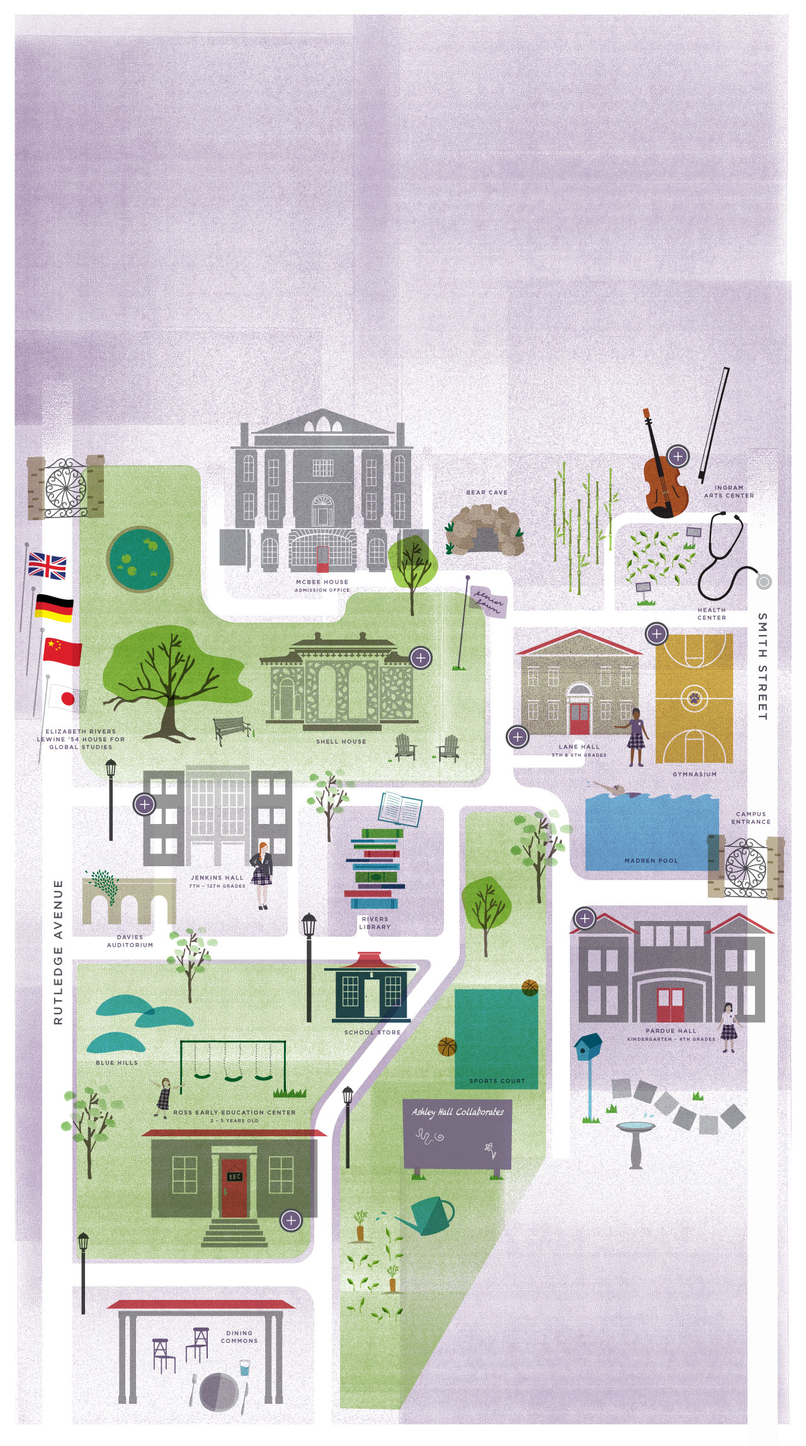
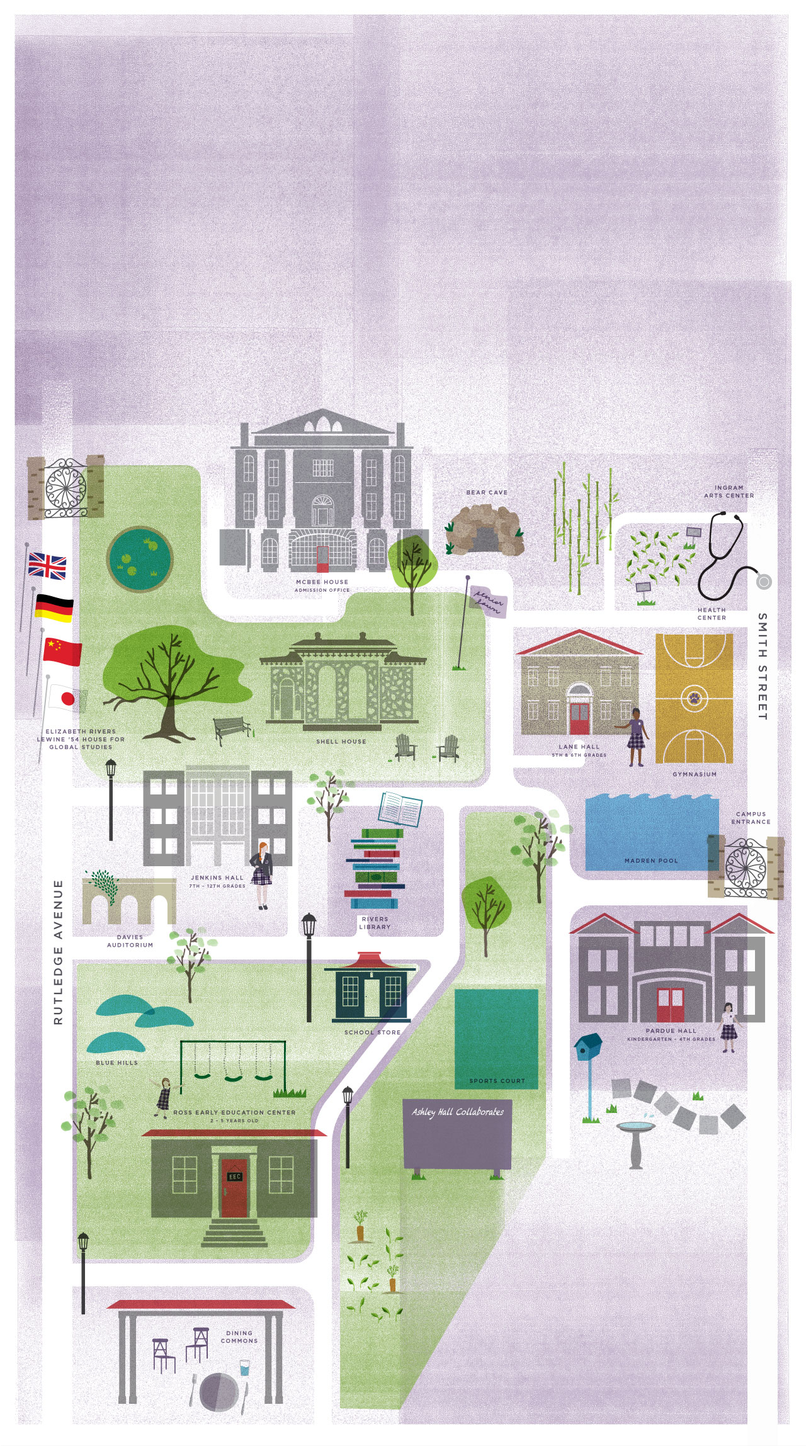
Add bball and violin animations to map

diff --git a/content/themes/ahw/components/discovery-map.php b/content/themes/ahw/components/discovery-map.php
@@ -9,6 +9,10 @@
   <div id="subhead-primary"><?php echo file_get_contents($GLOBALS['url']."/assets/text-4.svg"); ?></div>
   <div id="headline-continue"><?php echo file_get_contents($GLOBALS['url']."/assets/text-2.svg"); ?></div>
   <div id="subhead-continue"><?php echo file_get_contents($GLOBALS['url']."/assets/text-3.svg"); ?></div>
+
+  <!-- GIFs -->
+  <!-- <div id="violin"><img src="<?php echo $GLOBALS['url']."/assets/gif-violin.gif"; ?>" alt="violin" /></div> -->
+  <!-- <div id="bball"><img src="<?php echo $GLOBALS['url']."/assets/gif-bball.gif"; ?>" alt="violin" /></div> -->
   
   <!-- Buttons -->
   <div class="hover-bttn" id="ingram"><?php echo file_get_contents($GLOBALS['url']."/assets/hover-bttn.svg"); ?></div>
@@ -17,4 +21,4 @@
   <div class="hover-bttn" id="shellhouse"><?php echo file_get_contents($GLOBALS['url']."/assets/hover-bttn.svg"); ?></div>
   <div class="hover-bttn" id="jenkinshall"><?php echo file_get_contents($GLOBALS['url']."/assets/hover-bttn.svg"); ?></div>
   <div class="hover-bttn" id="ross"><?php echo file_get_contents($GLOBALS['url']."/assets/hover-bttn.svg"); ?></div>
-  <div class="hover-bttn" id="pardue"><?php echo file_get_contents($GLOBALS['url']."/assets/hover-bttn.svg"); ?></div>
+  <div "class="hover-bttn" id="pardue"><?php echo file_get_contents($GLOBALS['url']."/assets/hover-bttn.svg"); ?></div>
